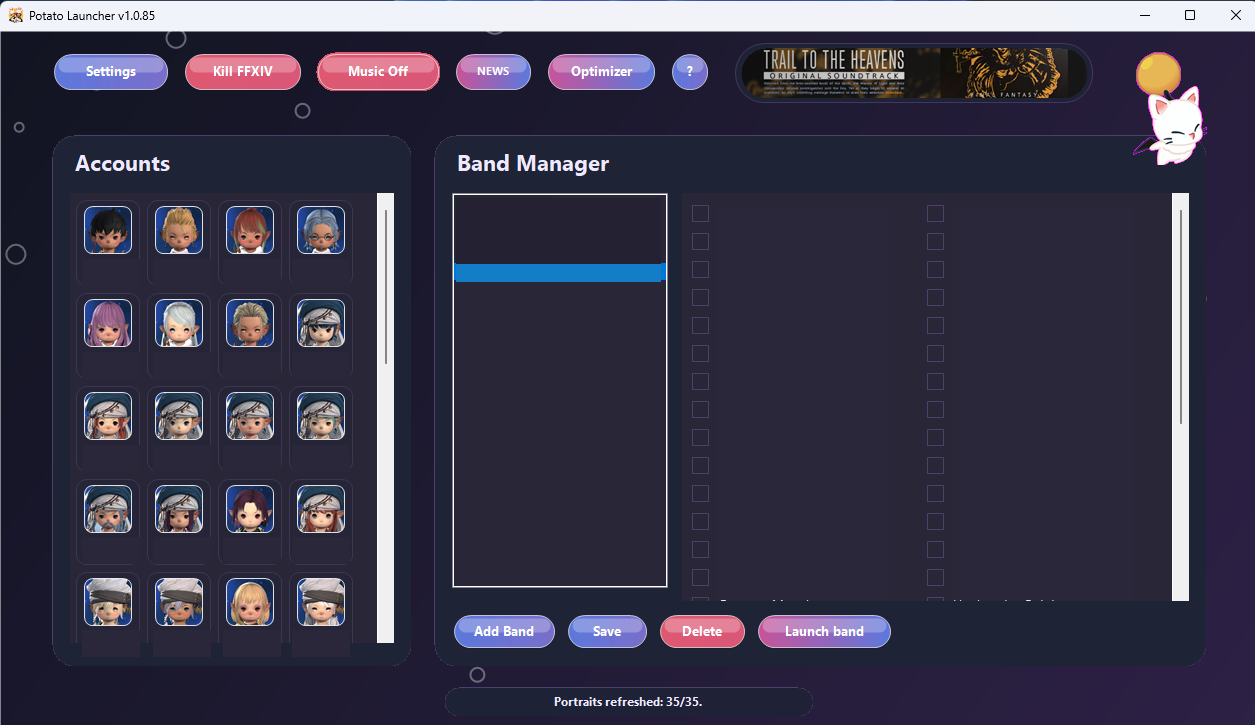
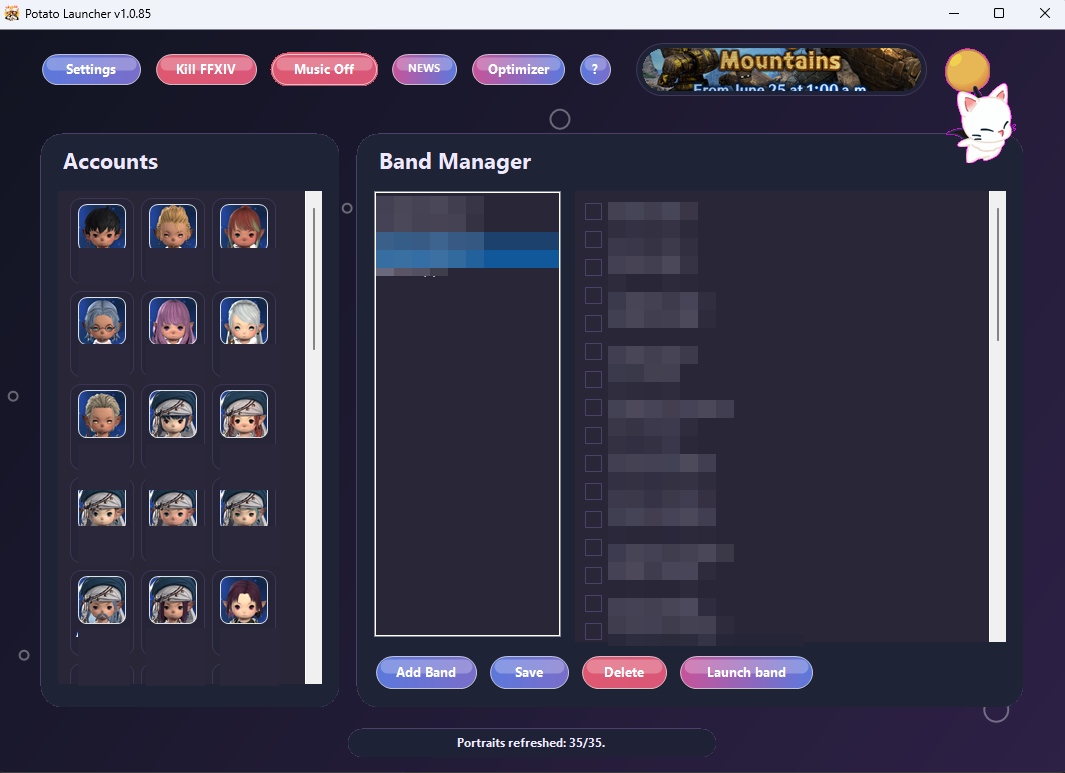
Refresh website preview images

diff --git a/docs/index.html b/docs/index.html
@@ -656,18 +656,6 @@
       <article class="scene">
         <div class="scene-media">
           <div class="screen">
-            <img src="assets/potato-launcher-settings-private.png" alt="Potato Launcher settings drawer">
-          </div>
-        </div>
-        <div class="scene-text">
-          <h3>Keep your setup yours.</h3>
-          <p>Themes, launch mode, cooldowns, exports, music, and notifications stay under your control.</p>
-        </div>
-      </article>
-
-      <article class="scene">
-        <div class="scene-media">
-          <div class="screen">
             <img src="assets/potato-launcher-optimizer.png" alt="Potato Optimizer monitor">
           </div>
         </div>
